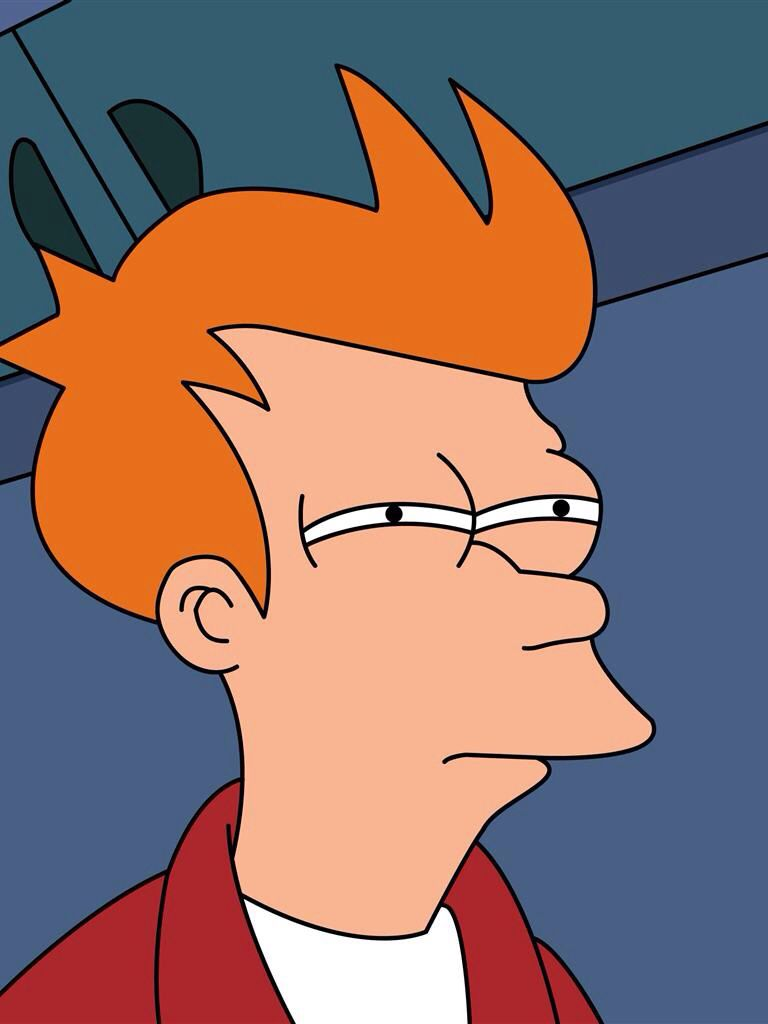
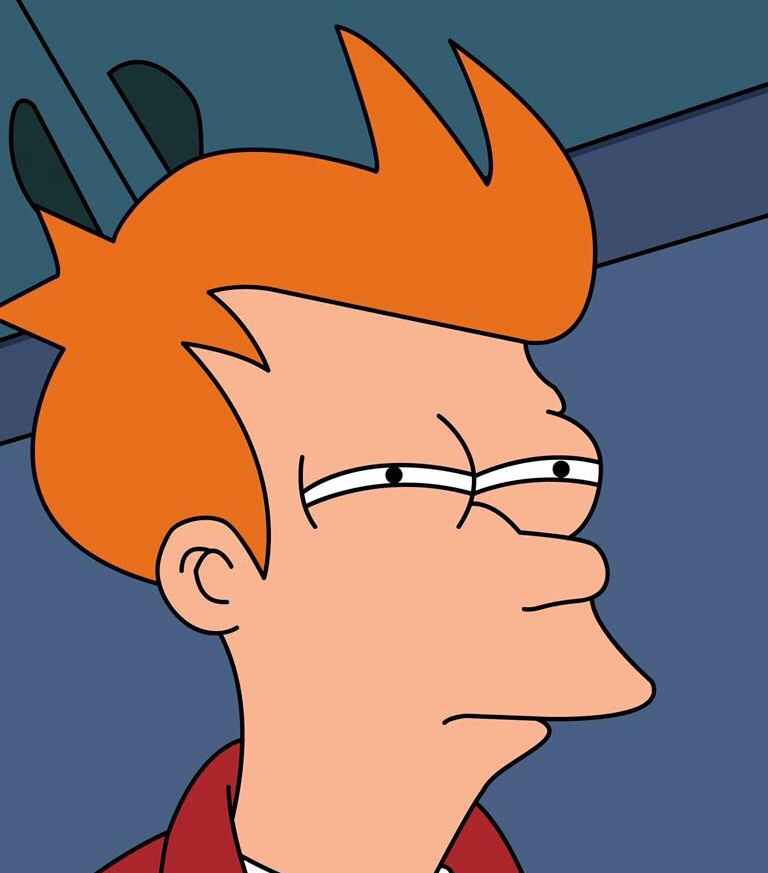
added the rest of the cards with images of futurama characters, need to figure out how to display all of them without having 12 <ImageCards/> on the App.js

diff --git a/reactmemorygame/src/App.js b/reactmemorygame/src/App.js
@@ -13,6 +13,18 @@ function App() {
         <Header />
         <Wrapper>
         <ImageCard image={images[0].image} />
+        <ImageCard image={images[1].image} />
+        <ImageCard image={images[2].image} />
+        <ImageCard image={images[3].image} />
+        <ImageCard image={images[4].image} />
+        <ImageCard image={images[5].image} />
+        <ImageCard image={images[6].image} />
+        <ImageCard image={images[7].image} />
+        <ImageCard image={images[8].image} />
+        <ImageCard image={images[9].image} />
+        <ImageCard image={images[10].image} />
+        <ImageCard image={images[11].image} />
+
         </Wrapper>
     </>
   );

diff --git a/reactmemorygame/src/components/ImageCard/style.css b/reactmemorygame/src/components/ImageCard/style.css
@@ -1,10 +1,10 @@
 .card {
     background: #fff;
     border-radius: 2px;
-    height: 150px;
+    height: 175px;
     margin: 1rem;
     position: relative;
-    width: 150px;
+    width: 175px;
     box-shadow: 0 3px 6px #999, 0 3px 6px #999;
     text-align: left;
   }
@@ -16,7 +16,8 @@
     background:#6CADDC;
   }
   .card > .img-container > img {
-    width: 100%
+    width: 100%;
+    height: 100%;
   }
   
   .card > .content {

diff --git a/reactmemorygame/src/components/Navbar/style.css b/reactmemorygame/src/components/Navbar/style.css
@@ -1,7 +1,7 @@
 .navbar {
     background: #53c985;
     color: white;
-    text-shadow: 1px 1px 2px black, 0 0 25px red, 0 0 5px darkred;
+    text-shadow: 1px 1px 2px black, 0 0 15px #e80308, 0 0 3px darkred;
     min-height: 50px;
     font-size: calc(10px + 14 * (100vw - 320px)/ 800);
     width: 100%;

diff --git a/reactmemorygame/src/components/Wrapper/style.css b/reactmemorygame/src/components/Wrapper/style.css
@@ -4,7 +4,8 @@
   height: 100%;
   display: flex;
   flex-flow: row wrap;
-  padding: 20px;
+  padding-left: 25%;
+  padding-right: 25%;
   justify-content: space-around;
   align-content: flex-start;
   overflow: auto;

diff --git a/reactmemorygame/src/components/ImageCard/index.js b/reactmemorygame/src/components/ImageCard/index.js
@@ -1,7 +1,9 @@
 import React from "react";
 import "./style.css";
 
+
 function ImageCard(props) {
+  
   return (
     <div className="card">
     <div className="img-container">
